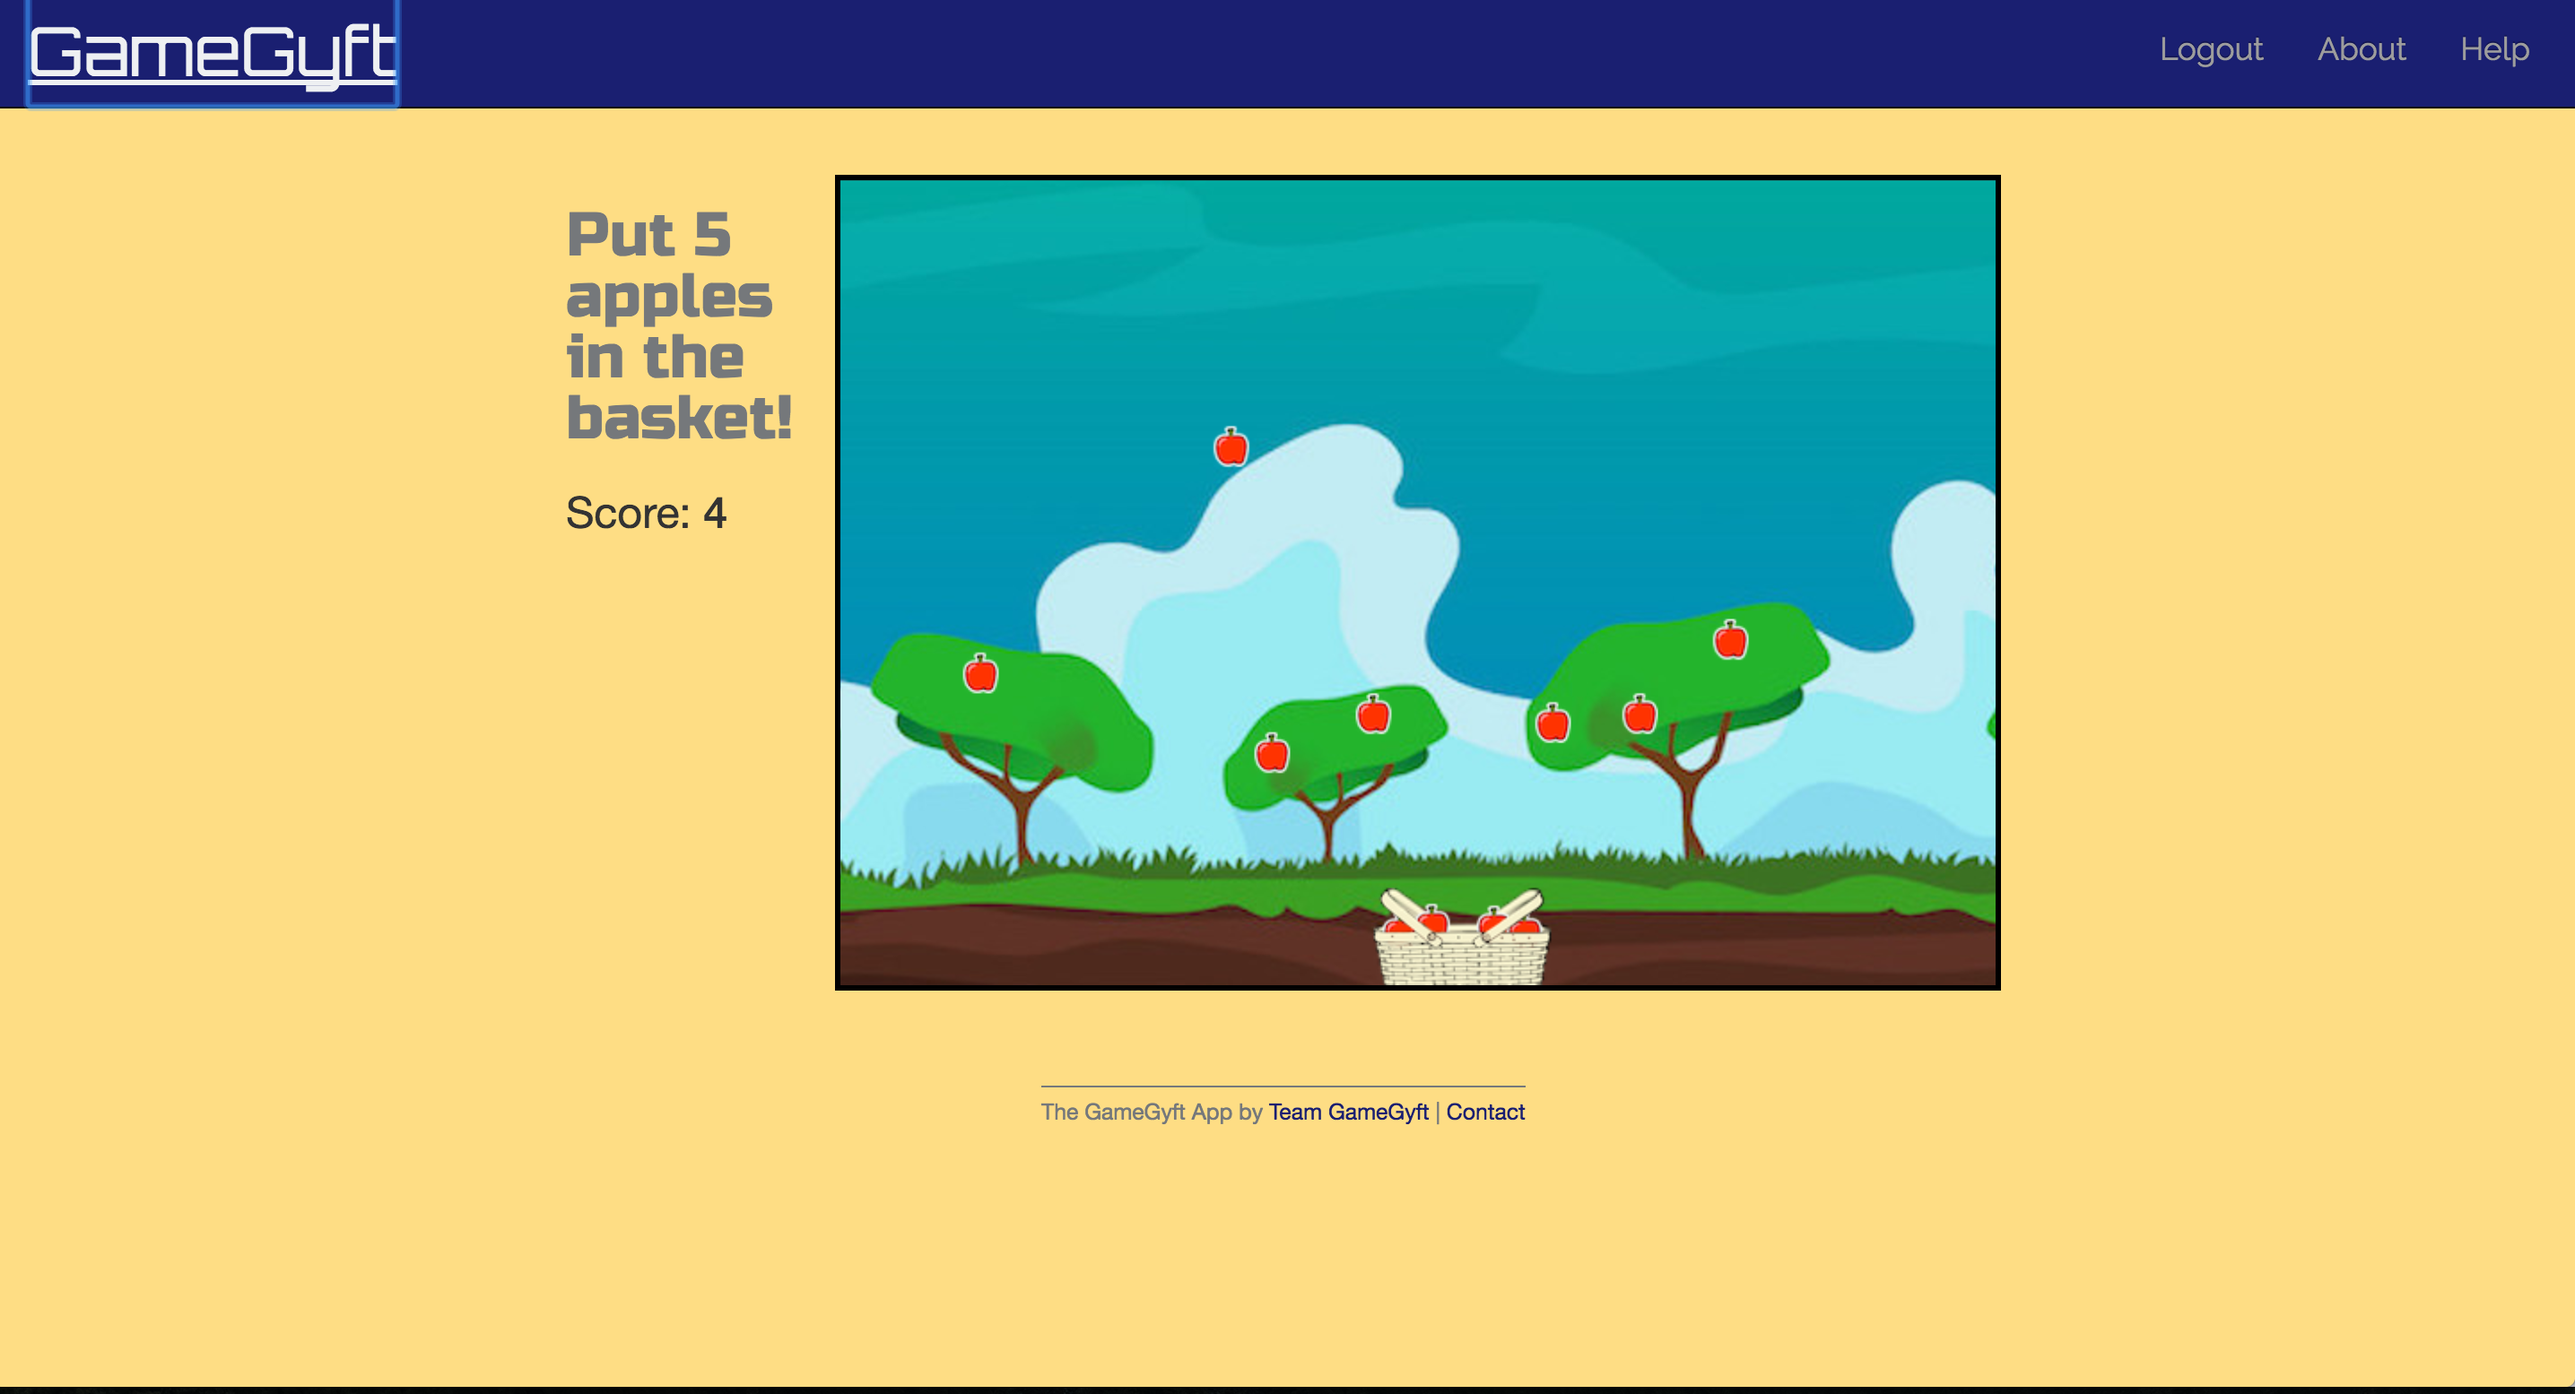
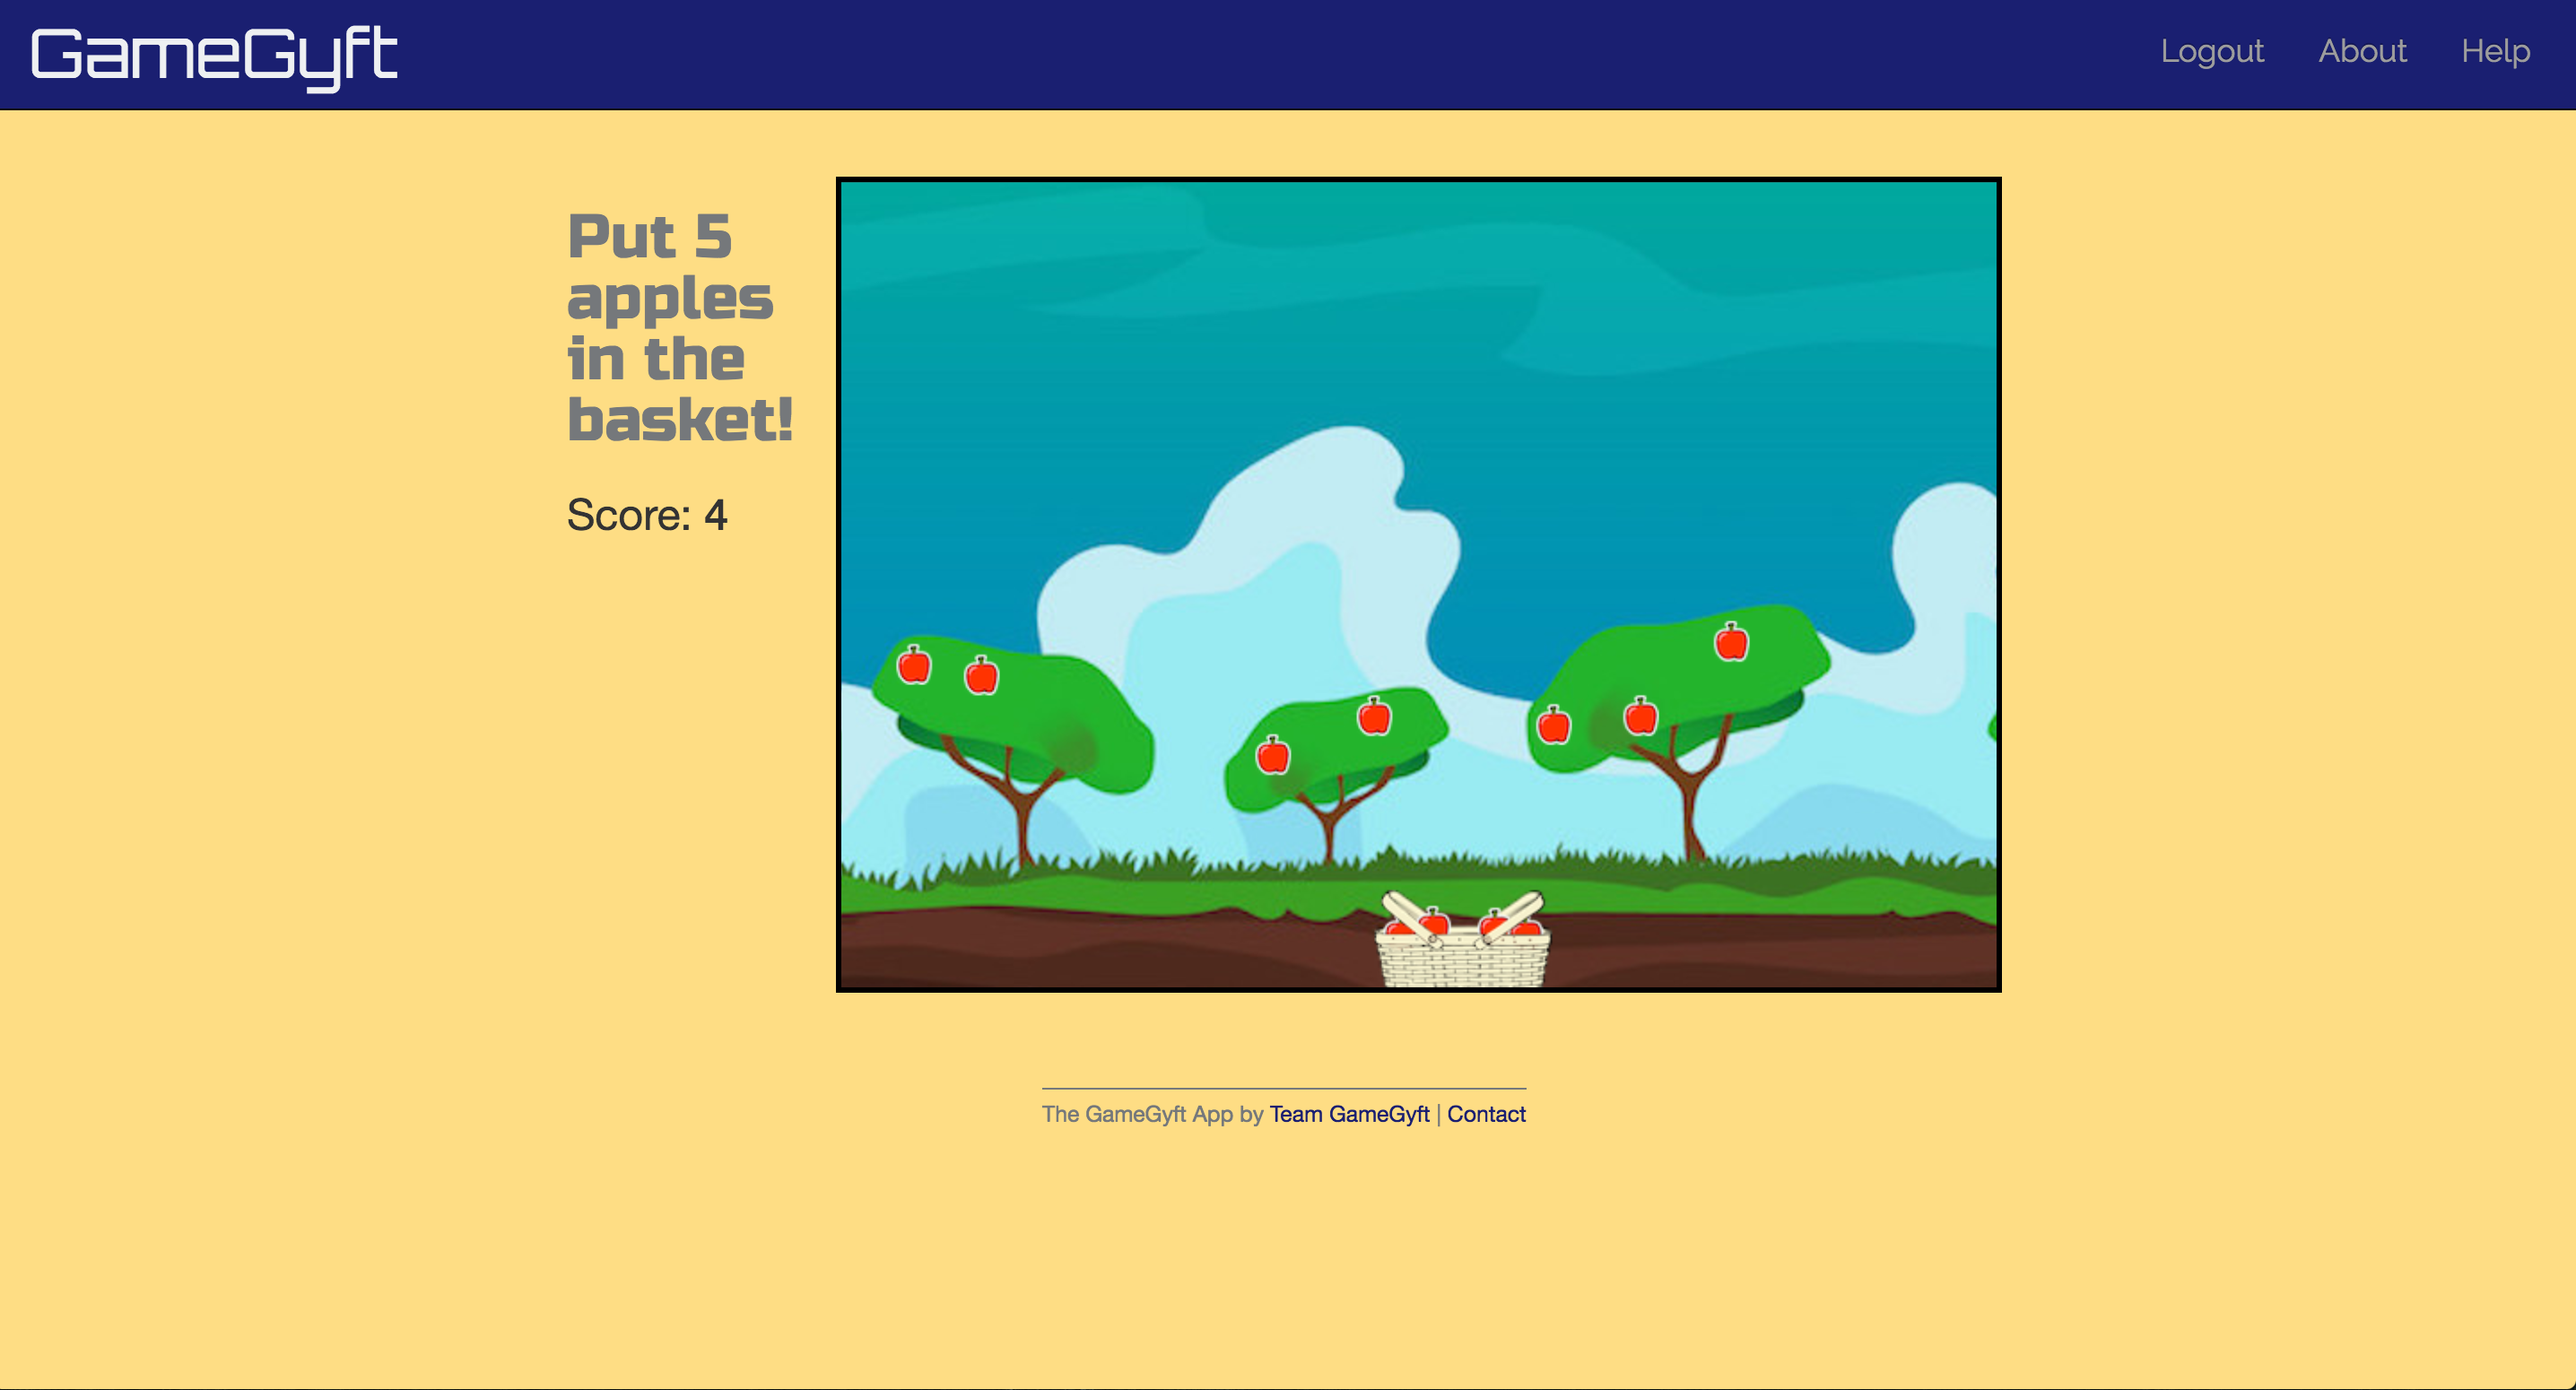
Add screenshots to readme

diff --git a/README.md b/README.md
@@ -14,7 +14,7 @@ In 2015, Gift Card sales reached a new peak of $130 BILLION dollars. Holidays, b
 The underlying psychology of giving weaves a complex web of emotions. GameGyft alleviates this dynamic by adding personalization and delight to the gift card industry.
 
 ## My Role
-Frontend JavaScript 
+Frontend JavaScript for general layout and game play/view.
 
 ## Team
 [Mike Ball](https://github.com/mikeball)  
@@ -23,3 +23,45 @@ Frontend JavaScript
 [Shawn Tuttle](https://github.com/ShawnTe)  
 
 Check out our mention on the [Forbes blog](http://bit.ly/2f1NMGT)!
+
+## Screenshots
+
+Name and age of person who will be recieving the gift.
+![Initial screen](screenshots/SendGyft.png "Initial screen")
+
+---
+The amount and a personal message for the reciever.
+![Amount and personal message](screenshots/SendGyft2.png "Amount and personal message")
+
+---
+The challenge the reciever has to complete in order to unlock the gift.
+![Pick A Challenge](screenshots/PickChallenge.png "Pick a challenge")
+
+---
+Payment details used to fund the gift.
+![Payment details](screenshots/PaymentInfo.png "Payment details")
+
+---
+On successful payment.
+![Successful payment](screenshots/Success.png "Success page")
+
+---
+The game that the reciever has to complete to unlock the gift.
+This age appriate game is intended for age 6 or under.
+![Apple Game](screenshots/Game.png "Apple Game")
+
+---
+On successful completion of the game by the reciever.
+![Congrats!](screenshots/Congrats.png "Congrats!")
+
+
+
+
+
+
+
+
+
+
+
+
